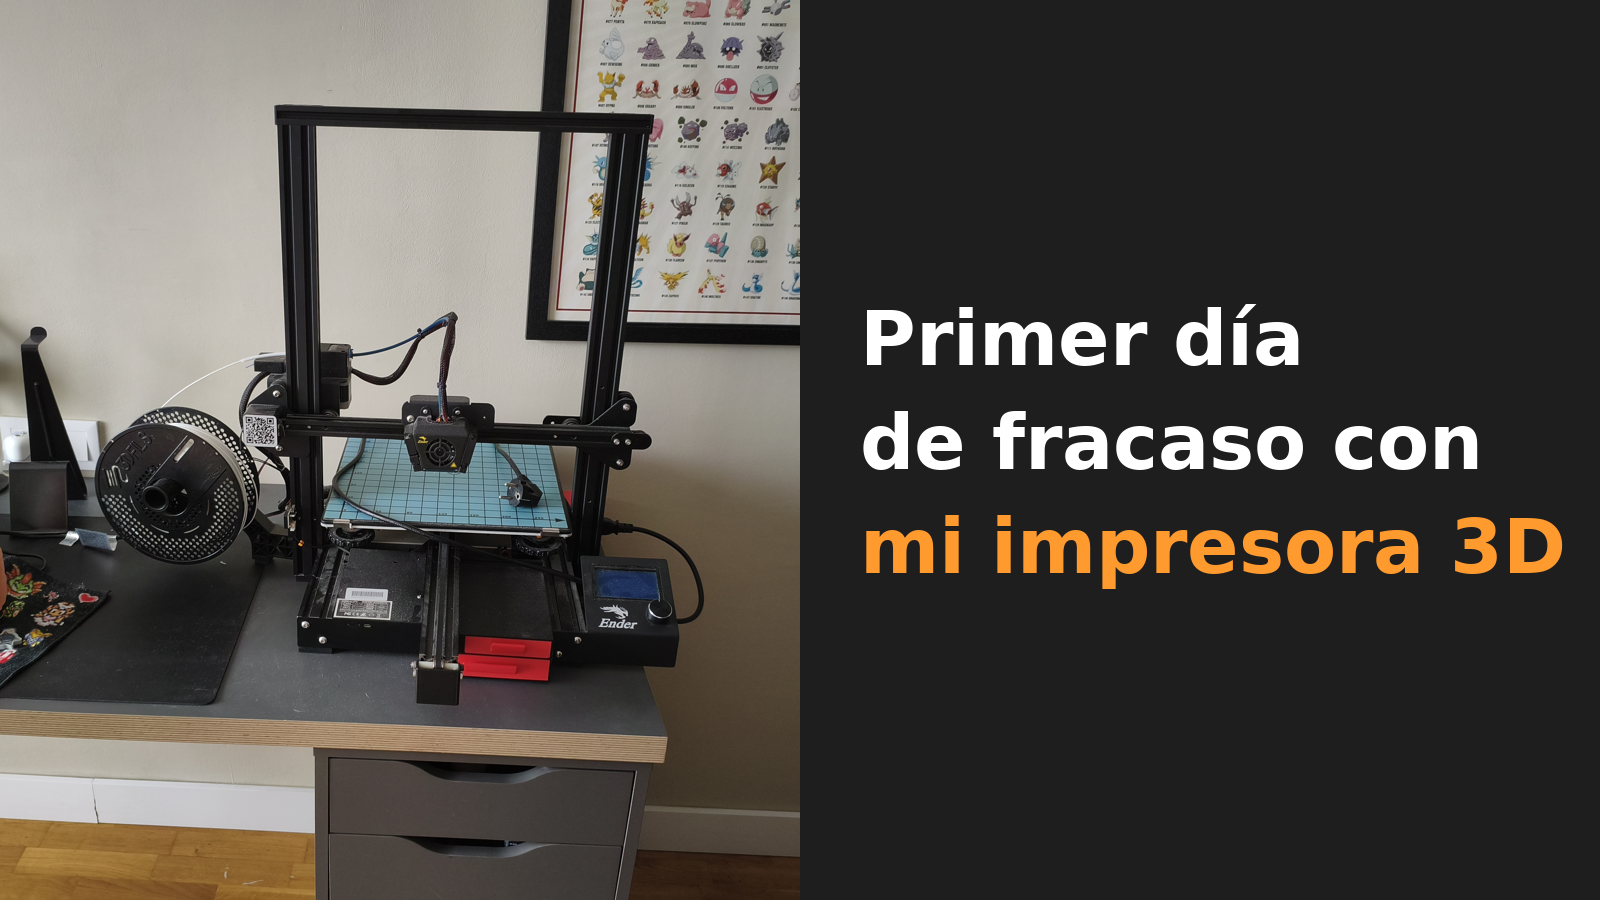
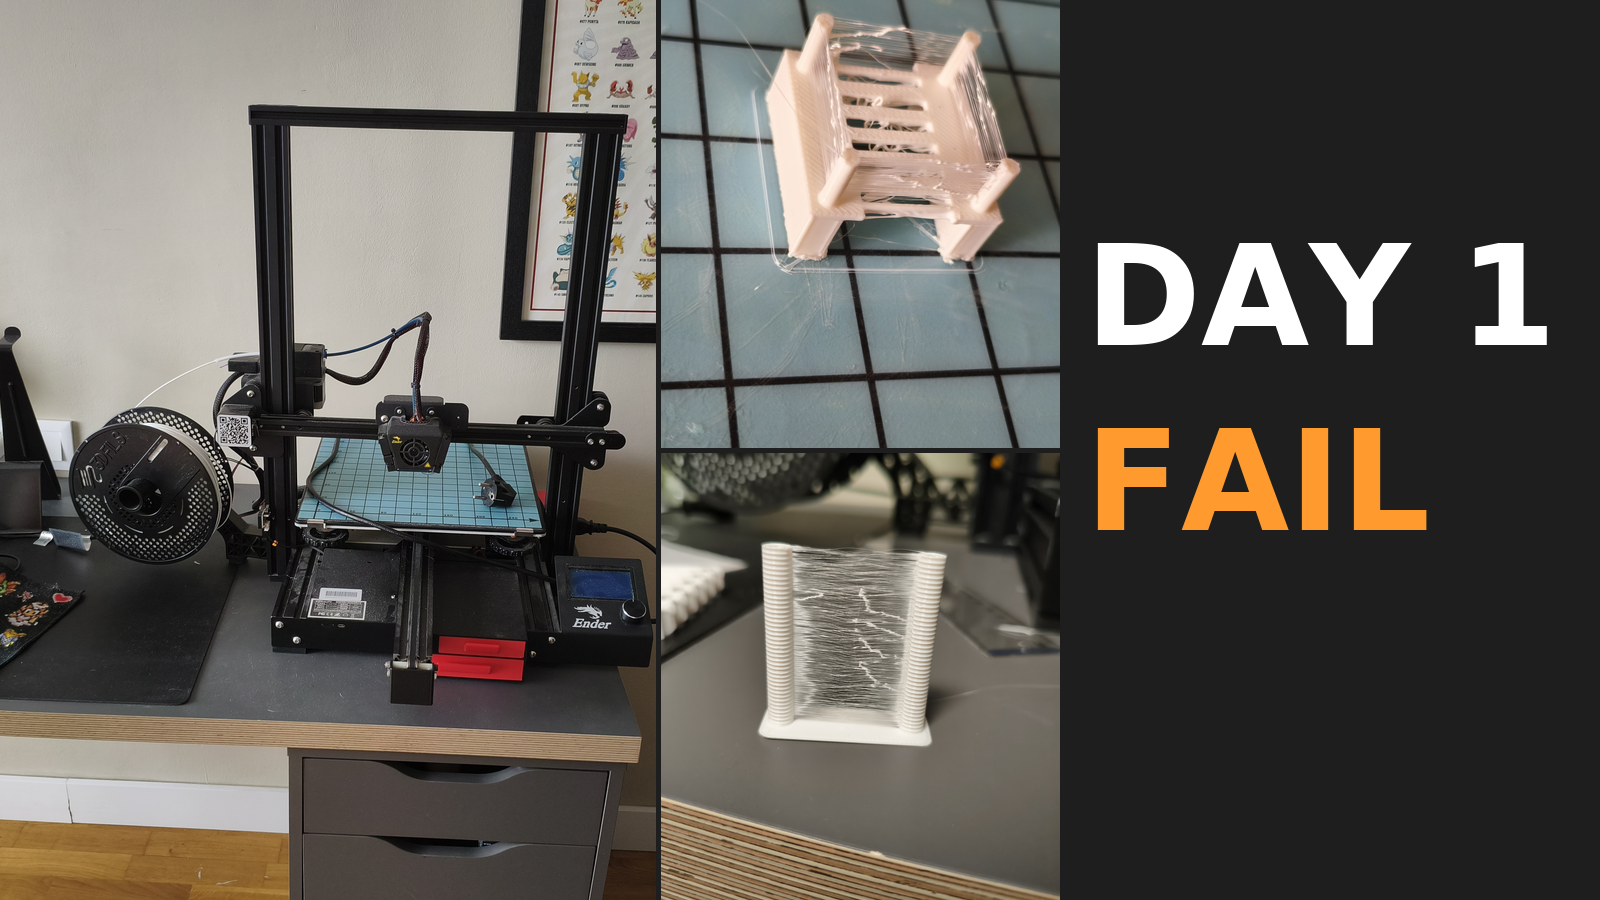
feat(blog): publish 3D printer first day post in en/es/ca

diff --git a/content/blog/3d-printer-first-day/index.es.md b/content/blog/3d-printer-first-day/index.es.md
@@ -4,9 +4,15 @@ description: "Compré una Ender 3 Max de segunda mano por unos 60 euros y el pri
 date: 2026-11-23
 image: cover.png
 keywords:
+  - Impresora 3D
+  - Ender 3 Max
+  - Ender 3
+  - Stringing
+  - Retracción
+  - Calibración
+  - Primera capa
 readingTime: true
 comments: true
-draft: true
 categories:
   - Impresora 3D
 tags:

diff --git a/content/blog/3d-printer-first-day/index.ca.md b/content/blog/3d-printer-first-day/index.ca.md
@@ -4,9 +4,15 @@ description: "Vaig comprar una Ender 3 Max de segona mà per uns 60 euros i el p
 date: 2026-11-23
 image: cover.png
 keywords:
+  - Impressora 3D
+  - Ender 3 Max
+  - Ender 3
+  - Stringing
+  - Retracció
+  - Calibratge
+  - Primera capa
 readingTime: true
 comments: true
-draft: true
 categories:
   - Impressora 3D
 tags:

diff --git a/content/blog/3d-printer-first-day/index.md b/content/blog/3d-printer-first-day/index.md
@@ -4,9 +4,15 @@ description: "I bought a second-hand Ender 3 Max for about 60 euros and the firs
 date: 2026-11-23
 image: cover.png
 keywords:
+  - 3D printer
+  - Ender 3 Max
+  - Ender 3
+  - Stringing
+  - Retraction
+  - Calibration
+  - First layer
 readingTime: true
 comments: true
-draft: true
 categories:
   - 3D Printer
 tags:
